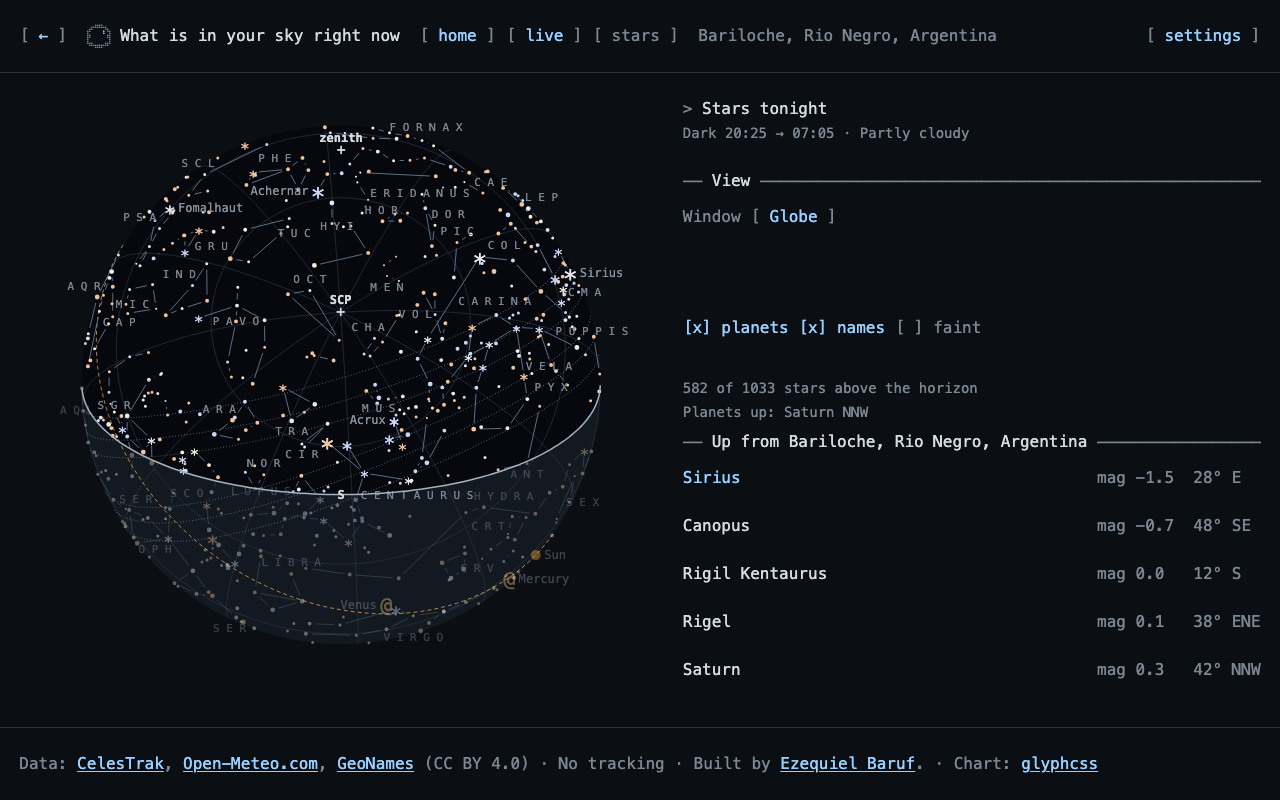
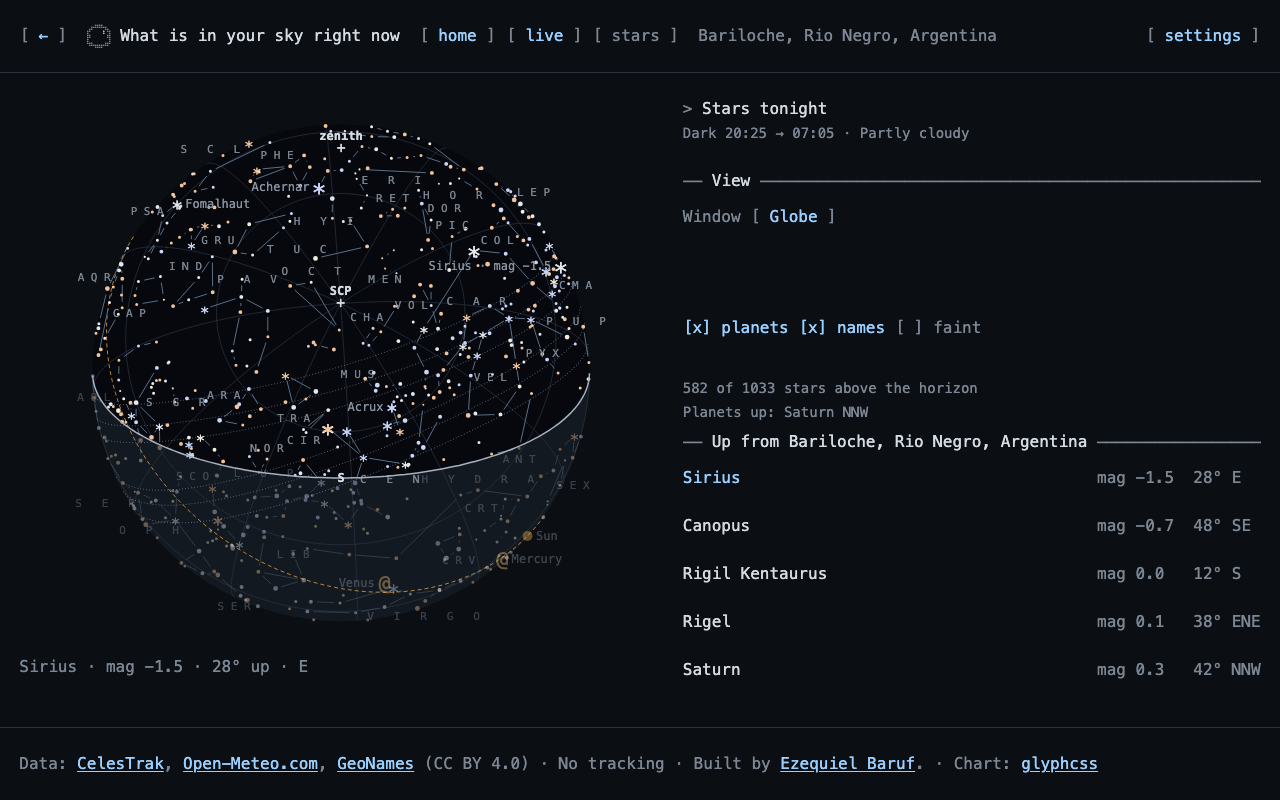
R171 review: the list's named row reaches the globe (FR-GLOBE-12), the globe and faint waits read a drawn frame and the deep total, the London seed and exact press, stars-whole's own 390 rule, the budget re-read
SkyGlobe takes the page's named row (a star's index, or a planet's past the catalogue) and names it as a hover or a press does; v1-stars-globe-named-1280-* re-shot on the Mac. globeShown waits for the SVG's viewBox, written only in a frame; stars-globe-faint waits for the count's total to pass the bright catalogue's. LONDON_FAVOURITE's lastUsedAt is its addedAt. The place route presses the full label. stars-whole loses its dead desk branch and gets its own [390] rule in captures.test.ts. Budget: stars +1,536 (GLOBE_STARS_KB exactly), main +762, globe 13.5; RELEASE §25.2 says why 2.11.0's main reads 186,383 here and 186,394 in §24.2.

diff --git a/tests/e2e/v1-captures.spec.ts b/tests/e2e/v1-captures.spec.ts
@@ -58,7 +58,7 @@ import { closeSheet, domeDrawn, enterScrubbing, openLegend, openSettings, openSh
 // Bariloche is the place picker's observer for the geocoder's first answer, at its 839 m (FR-SHOW-9), which is
 // what the stored Bariloche run and `SHOWN_PASS`'s id were computed at. Neuquén is only the second row of the
 // saved places.
-import { BARILOCHE, FIXTURE_DATE, NEUQUEN } from './observers';
+import { BARILOCHE, FIXTURE_DATE, LONDON, NEUQUEN } from './observers';
 import { aimedAt, setReadings, stubOrientation } from './orientation';
 
 /** `hh:mm:ss` in the observer's zone: the page's clocks read local time now that the observer has one (D-36). */
@@ -660,7 +660,8 @@ const TURN_STARS = { en: 'with the stars', es: 'con las estrellas' } as const;
 /**
  * R171 (FR-GLOBE-1, FR-GLOBE-18; D-1042): `Globe` pressed in the wide stars page's view row. The globe and its rail
  * groups are lazy chunks whose Suspense reveal the paused clock holds (R32), so the wait ticks the clock until the
- * zenith's mark is in the globe's SVG and the rail's groups are drawn, then a second for the frame, and the instant is
+ * globe's SVG has had its first frame — `GlobeRenderer` builds every node hidden at mount and writes the `viewBox` only
+ * in a frame — and the rail's groups are drawn, then a second more, and the instant is
  * put back on `CLOCK` (F-48) — the globe's own clock opens at now and ticks with real time (FR-GLOBE-7), so the pin is
  * its instant too. The focus ring leaves the row's button.
  */
@@ -669,7 +670,7 @@ async function globeShown(page: Page, locale: CaptureLocale): Promise<void> {
   await expect
     .poll(async () => {
       await page.clock.runFor(200);
-      return (await page.locator('[data-globe] [data-zenith]').count()) > 0 && (await page.getByTestId('globe-groups').count()) > 0;
+      return (await page.locator('svg[data-globe][viewBox]').count()) > 0 && (await page.getByTestId('globe-groups').count()) > 0;
     }, { timeout: 30_000 })
     .toBe(true);
   await page.clock.runFor(1000);
@@ -1055,12 +1056,13 @@ const REACH: Record<string, Reach> = {
     await page.mouse.move(0, 0);
   },
 
-  /** R161 (FR-PHONE-7, FR-PHONE-8, FR-PHONE-16): the stars page as it opens, `Whole sky` pressed. */
+  /**
+   * R161 (FR-PHONE-7, FR-PHONE-8, FR-PHONE-16): the stars page as it opens, `Whole sky` pressed. R171 (FR-GLOBE-18):
+   * at 390 alone — the wide page's whole sky is the globe — where the view row is the sheet's (R165, FR-CLEAN-4).
+   */
   async 'stars-whole'(page, width, theme, locale) {
     await starsAt(page, width, theme, locale);
-    // R165 (FR-CLEAN-4): on a phone the view row is the sheet's.
-    if (isTouch('stars-whole', width)) await inSheet(page, () => wholeSky(page, locale));
-    else await wholeSky(page, locale);
+    await inSheet(page, () => wholeSky(page, locale));
     await pinnedAt(page, CLOCK);
     await page.mouse.move(0, 0);
   },
@@ -1166,22 +1168,26 @@ const REACH: Record<string, Reach> = {
 
   /**
    * R171 (FR-GLOBE-10, FR-GLOBE-18): `stars-globe`, then `[ ] faint` pressed. The deep catalogue is `deepChunk.ts`'s
-   * lazy fetch, so the wait ticks the clock until the count reads the whole drawn set, then pins the instant again.
+   * lazy fetch, so the wait ticks the clock until the count's total ("… of N stars") is past the bright catalogue's —
+   * the total moves only when the deep chunk is in (the visible number moves with the instant too) — then gives the
+   * renderer, handed the same chunk, a second for its frame and pins the instant again.
    */
   async 'stars-globe-faint'(page, width, theme, locale) {
     await starsAt(page, width, theme, locale);
     await globeShown(page, locale);
     const count = page.getByTestId('globe-count');
-    const before = await count.textContent();
+    const total = async (): Promise<number> => Number(/ (?:of|de) (\d+) /.exec((await count.textContent()) ?? '')?.[1] ?? NaN);
+    const bright = await total();
+    expect(bright).toBeGreaterThan(0);
     const faint = page.locator('[data-layer="faint"]');
     await faint.click();
     await expect(faint).toHaveAttribute('aria-pressed', 'true');
     await expect
       .poll(async () => {
         await page.clock.runFor(200);
-        return count.textContent();
+        return total();
       }, { timeout: 30_000 })
-      .not.toBe(before);
+      .toBeGreaterThan(bright);
     await page.clock.runFor(1000);
     await pinnedAt(page, CLOCK);
     await blurFocus(page);
@@ -1195,7 +1201,9 @@ const REACH: Record<string, Reach> = {
   async 'stars-globe-place'(page, width, theme, locale) {
     await starsAt(page, width, theme, locale, CLOCK, { favourites: [LONDON_FAVOURITE] });
     await globeShown(page, locale);
-    const london = page.getByTestId('globe-place').getByRole('button', { name: 'London' });
+    // The whole label after the option's box (`[ ]`, then `[x]` once pressed), so no other saved London matches.
+    const label = LONDON.label.replace(/[.*+?^${}()|[\]\\]/g, '\\$&');
+    const london = page.getByTestId('globe-place').getByRole('button', { name: new RegExp(`^\\[.\\] ${label}$`) });
     await london.click();
     await expect(london).toHaveAttribute('aria-pressed', 'true');
     await expect(page.getByTestId('stars-sky')).toHaveAttribute('aria-label', /London/);
@@ -1213,8 +1221,9 @@ const REACH: Record<string, Reach> = {
 
   /**
    * R171 (FR-GLOBE-11, FR-GLOBE-12, FR-GLOBE-18): `stars-globe` with the first row of `Up from <place>` pressed. The
-   * name holds for `STAR_LABEL_HOLD_S` and a pin is a ten-second tick, so the instant is pinned first and the row
-   * pressed after it; `settled`'s two frames are well inside the hold.
+   * name holds for `STAR_LABEL_HOLD_S` and a pin is a ten-second tick, so the instant is pinned first (`globeShown`)
+   * and the row pressed after it; the one frame here and the shot's settle are well inside the hold. The list's name
+   * is the globe's too (FR-GLOBE-12): the label beside Sirius with its magnitude, and the readout line under the box.
    */
   async 'stars-globe-named'(page, width, theme, locale) {
     await starsAt(page, width, theme, locale);
@@ -1223,9 +1232,10 @@ const REACH: Record<string, Reach> = {
     await first.click();
     await expect(first).toHaveAttribute('aria-pressed', 'true');
     await page.clock.runFor(FRAME_MS);
+    await expect(page.getByTestId('globe-named')).toBeVisible();
+    await expect(page.locator('svg[data-globe] [data-label]')).toHaveAttribute('visibility', 'visible');
     await blurFocus(page);
     await page.mouse.move(0, 0);
-    await expect(first).toHaveAttribute('aria-pressed', 'true');
   },
 
 };

diff --git a/scripts/bundle-budget.ts b/scripts/bundle-budget.ts
@@ -424,15 +424,19 @@ export interface Budget {
  * | astronomy      | `astronomy-*` + `skyBodies-*` | 24.1 | 24.1 |     30 |  30 |      30 |
  * | live           | `Live-*.js`           |       14.7 |     13.7 |     20 |  20 |      40 |
  * | window         | `SkyWindow-*.js`      |       13.2 |     13.0 |     15 |  15 |       — |
- * | globe          | `SkyGlobe-*` + `GlobeRail-*` + `scene-*` | — | 13.4 | **15** | 15 | 15 |
+ * | globe          | `SkyGlobe-*` + `GlobeRail-*` + `scene-*` | — | 13.5 | **15** | 15 | 15 |
  * | service worker | `workbox-*.js`        |        5.0 |      5.0 |     10 |  10 |      15 |
  * | settings       | `Settings-*.js`       |        1.2 |      1.2 |     10 |  10 |       — |
  *
- * `main` is +759 bytes over 2.11.0 (186,383 → 187,142), the globe's strings in
- * both catalogs and the lazy import, inside GLOBE_MAIN_KB (1.5); `stars` +1,529
- * (30,611 → 32,140), the view row's third value and the rail's wiring, inside
- * GLOBE_STARS_KB (1,536 bytes) by 7. `live` gives back 1,075 bytes and `window`
- * 137: the modules the globe shares with them (`shownTime`, `useWallThrottle`,
+ * `main` is +762 bytes over 2.11.0 (186,383 → 187,145), the globe's strings in
+ * both catalogs and the lazy import, inside GLOBE_MAIN_KB (1.5); `stars` +1,536
+ * (30,611 → 32,147), the view row's third value, the rail's wiring and the
+ * named row handed to the globe, at GLOBE_STARS_KB (1,536 bytes) exactly.
+ * 2.11.0's `main` reads 186,383 beside this branch and 186,394 in R165's note
+ * above and in D-1050: one `src/`, built in other checkouts on other days; the
+ * delta of record is the one read beside a base built in the same run
+ * (`docs/RELEASE.md` §25.2). `live` gives back 1,074 bytes and `window`
+ * 135: the modules the globe shares with them (`shownTime`, `useWallThrottle`,
  * `skySurface`, `starGlyphs.module`, `deepChunk`) are chunks of their own now,
  * listed unbudgeted as every shared lazy chunk is. `docs/RELEASE.md` §25.2 has
  * the byte counts.
@@ -496,9 +500,9 @@ export const BUDGETS: readonly Budget[] = [
   { name: 'live', match: (file) => /^Live-.*\.js$/.test(file), limitKb: 20 }, // R149 (FR-FULL-9 as amended, V28-9, D-940): 15.3 on the 2.8.0 branch against 13.3 on 2.7.0 (15,658 bytes against 13,596, +2,062) — `ControlsSheet`, `SkyHead`, `OpeningCard` and the card's effect; the owner accepted the measure and D-178's × 1.1 (16.8) re-sets the row to 20; R145 (D-178): 13.3 on 2.7.0 against 9.7 on 2.6.1 (+3,681 bytes) — the track, the taps, the shown time and the jump are imported only by the lazy `Live.tsx`, so Rollup puts them here and not in main (FR-TONIGHT-10 as amended, V27-9); × 1.1 = 14.6, so 15 stays; R53: back to the floor — R47 moved the World Magnetic Model to its own chunk and 1.1.0 measures 7.6 (D-178); R72: 8.5 on 1.4.0, the floor's last 1.5 KB; R100: 9.7 on 2.1.0, × 1.1 crosses 10 (D-638)
   { name: 'window', match: (file) => /^SkyWindow-.*\.js$/.test(file), limitKb: 15 }, // R161 (D-178, D-993): 13.1 on 2.10.0 against 26.1 on 2.9.0 (13,370 bytes against 26,725) — what the window shares with the polar chart went to the shared `starLabels-*` chunk (12.9) and the constellation table to `camera-*` (4.5), both unbudgeted; × 1.1 = 14.4, down to 15; R128 (D-831): 25.7 on 2.5.0, re-set by D-178's rule (× 1.1 = 28.3, up to 30) — the hand camera on every page, the picker, the zoom and the landmark (R121, R125, R127); R65: 12.0 measured — the WMM folded back in when the window became its only caller (D-345); R72: 12.1 on 1.4.0; R80: 12.8 with the compass gutter in it; R118 (D-759 as amended, D-780, D-785): 22.1 on 2.4.0, re-set by D-178's rule (× 1.1 = 24.3, up to 25) — the star names, the page's label words, the constellation table and the magnitude format are shared by the `stars` and `SkyWindow` chunks, and Rollup puts what they share in `SkyWindow-*.js`
   { name: 'settings', match: (file) => /^Settings-.*\.js$/.test(file), limitKb: 10 }, // R93 (D-545): 1.0 measured — the page's own composition; its controls are the home page's and stay in main
-  // R170 (FR-GLOBE-15, D-1035): the stars page's globe — `SkyGlobe-*.js` (the renderer and the hand), `GlobeRail-*.js` (the rail's groups and list, lazy with it so `stars` keeps the wiring alone) and `scene-*.js` (`globe/scene.ts` and the projection, which the two share), one total. R171 (D-178, D-1042): 13.4 on 2.12.0 (13,724 bytes), moved here from `PHASE_BUDGETS`; × 1.1 = 14.7, so 15, GLOBE_BUDGET_KB, the ceiling.
+  // R170 (FR-GLOBE-15, D-1035): the stars page's globe — `SkyGlobe-*.js` (the renderer and the hand), `GlobeRail-*.js` (the rail's groups and list, lazy with it so `stars` keeps the wiring alone) and `scene-*.js` (`globe/scene.ts` and the projection, which the two share), one total. R171 (D-178, D-1042): 13.5 on 2.12.0 (13,807 bytes), moved here from `PHASE_BUDGETS`; × 1.1 = 14.9, so 15, GLOBE_BUDGET_KB, the ceiling.
   { name: 'globe', match: (file) => /^(SkyGlobe|GlobeRail|scene)-.*\.js$/.test(file), limitKb: 15 },
-  { name: 'stars', match: (file) => /^Stars-.*\.js$/.test(file), limitKb: 35 }, // R171 (D-178): 31.4 on 2.12.0 against 29.9 on 2.11.0 (32,140 bytes against 30,611, +1,529) — the view row's third value and the globe's wiring, inside GLOBE_STARS_KB; × 1.1 = 34.5, so 35 stays; R161 (D-178): 29.2 on 2.10.0 against 26.0 on 2.9.0 (29,863 bytes against 26,665, +3,198) — the `bv` column, the haze outline and the view row; × 1.1 = 32.1, up to 35 under the 40 ceiling; R115 (FR-STAR-9, D-759): the page, the catalogue (18.8, D-763) and the positions, under STARS_BUDGET_KB (40), the ceiling; R118 (D-785): 23.6 on 2.4.0, re-set by D-178's rule (× 1.1 = 26.0, up to 30)
+  { name: 'stars', match: (file) => /^Stars-.*\.js$/.test(file), limitKb: 35 }, // R171 (D-178): 31.4 on 2.12.0 against 29.9 on 2.11.0 (32,147 bytes against 30,611, +1,536) — the view row's third value, the globe's wiring and its named row, at GLOBE_STARS_KB; × 1.1 = 34.5, so 35 stays; R161 (D-178): 29.2 on 2.10.0 against 26.0 on 2.9.0 (29,863 bytes against 26,665, +3,198) — the `bv` column, the haze outline and the view row; × 1.1 = 32.1, up to 35 under the 40 ceiling; R115 (FR-STAR-9, D-759): the page, the catalogue (18.8, D-763) and the positions, under STARS_BUDGET_KB (40), the ceiling; R118 (D-785): 23.6 on 2.4.0, re-set by D-178's rule (× 1.1 = 26.0, up to 30)
 ];
 
 /**

diff --git a/src/ui/components/guide/skychart/globe/SkyGlobe.tsx b/src/ui/components/guide/skychart/globe/SkyGlobe.tsx
@@ -6,6 +6,7 @@ import { STAR_LABEL_HOLD_S } from '../../../../screens/stars/field';
 import { HIT_RADIUS_PX } from '../window/starGlyphs';
 import { GLOBE_KEY_STEP_DEG, GLOBE_ZOOM_MAX, GLOBE_ZOOM_MIN, GLOBE_ZOOM_STEP } from './constants';
 import { frameFor, GlobeRenderer, projectorFor, readoutLine, sameTarget, type GlobeLayers, type GlobeTarget, type Turn } from './GlobeRenderer';
+import { PLANETS } from '../../../../../lib/skyStars';
 import { coordsIn, dragTurn, EQUATORIAL, openView } from './projection';
 import { globeSky } from './scene';
 import styles from './SkyGlobe.module.css';
@@ -59,6 +60,11 @@ export interface SkyGlobeProps {
   language: Locale;
   /** FR-GLOBE-10: the deep chunk would not load; the page unpresses `faint`. */
   onFaintFailed?: () => void;
+  /**
+   * FR-GLOBE-12 (FR-LEG-4's rule): the `Up from <place>` row the page has named, by `upList`'s index — a star's
+   * catalogue index, or a planet's past the catalogue's length (D-750). A hover or a press on the globe comes first.
+   */
+  named?: number | null;
   className?: string;
 }
 
@@ -102,7 +108,15 @@ function measure(box: HTMLElement): { width: number; height: number } {
   return { width: Math.round(rect.width), height: Math.round(rect.height) };
 }
 
-export default function SkyGlobe({ place, instant, turn, layers, faint, language, onFaintFailed, className }: SkyGlobeProps) {
+/** FR-GLOBE-12: a list row's index as the globe's target — a star's, else the planet `PLANETS` holds past the catalogue. */
+function listTarget(index: number | null, size: number): GlobeTarget | null {
+  if (index === null) return null;
+  if (index < size) return { kind: 'star', index };
+  const body = PLANETS[index - size];
+  return body === undefined ? null : { kind: 'planet', body };
+}
+
+export default function SkyGlobe({ place, instant, turn, layers, faint, language, onFaintFailed, named: listNamed = null, className }: SkyGlobeProps) {
   const catalog = useMemo(() => starCatalog(), []);
   const boxRef = useRef<HTMLDivElement>(null);
   const svgRef = useRef<SVGSVGElement>(null);
@@ -110,6 +124,7 @@ export default function SkyGlobe({ place, instant, turn, layers, faint, language
   const viewRef = useViewRef(() => openingView(turn, place, instant));
   const [named, setNamed] = useState<GlobeTarget | null>(null);
   const [hovered, setHovered] = useState<GlobeTarget | null>(null);
+  const listed = useMemo(() => listTarget(listNamed, catalog.size), [listNamed, catalog]);
   const [dragging, setDragging] = useState(false);
   const readoutId = `${useId()}-readout`;
 
@@ -164,8 +179,8 @@ export default function SkyGlobe({ place, instant, turn, layers, faint, language
         view.lat = opened.lat;
       }
     }
-    renderer?.set({ place, t: instant, turn, lon: view.lon, lat: view.lat, zoom: view.zoom, layers, faint, lang: language, named: hovered ?? named });
-  }, [place, instant, turn, layers, faint, language, hovered, named, viewRef]);
+    renderer?.set({ place, t: instant, turn, lon: view.lon, lat: view.lat, zoom: view.zoom, layers, faint, lang: language, named: hovered ?? named ?? listed });
+  }, [place, instant, turn, layers, faint, language, hovered, named, listed, viewRef]);
 
   // FR-GLOBE-10: the deep chunk, once, the first time `faint` is on; a failure tells the page. The callback is read through a ref, so a new one does not re-run the load.
   const askedRef = useRef(false);
@@ -419,7 +434,7 @@ export default function SkyGlobe({ place, instant, turn, layers, faint, language
     move();
   };
 
-  const shown = hovered ?? named;
+  const shown = hovered ?? named ?? listed;
   const line = shown === null ? null : readoutLine(catalog, { place, t: instant, lang: language }, shown);
   return (
     <>

diff --git a/src/ui/components/guide/skychart/globe/SkyGlobe.test.tsx b/src/ui/components/guide/skychart/globe/SkyGlobe.test.tsx
@@ -329,6 +329,23 @@ describe('naming (FR-GLOBE-11)', () => {
     expect(container.querySelector('[data-testid="globe-named"]')).toBeNull();
   });
 
+  it('FR-GLOBE-12: a row the list names names its mark on the globe — a star, a planet past the catalogue — and none clears it', () => {
+    const { container, rerender, q } = mount();
+    const star = centreStar(container);
+    rerender({ named: star.index });
+    frames.frame();
+    expect(q('[data-label]')).toHaveAttribute('visibility', 'visible');
+    expect(q('[data-label]').textContent).toBe(`${catalog.name[star.index] || catalog.desig[star.index]} · mag ${formatStarMag(catalog.mag[star.index] ?? 0, 'en')}`);
+    expect(q('[data-testid="globe-named"]').textContent).toBe(readoutLine(catalog, { place: BUENOS_AIRES, t: T, lang: 'en' }, { kind: 'star', index: star.index }));
+    rerender({ named: catalog.size + 4 });
+    frames.frame();
+    expect(q('[data-testid="globe-named"]').textContent).toBe(readoutLine(catalog, { place: BUENOS_AIRES, t: T, lang: 'en' }, { kind: 'planet', body: 'Saturn' }));
+    rerender({ named: null });
+    frames.frame();
+    expect(q('[data-label]')).toHaveAttribute('visibility', 'hidden');
+    expect(container.querySelector('[data-testid="globe-named"]')).toBeNull();
+  });
+
   it('reads out in Spanish, with the zenith and the pole in Spanish too', () => {
     const { container, box, q } = mount({ language: 'es' });
     expect(q('[data-zenith-name]').textContent).toBe('cenit');

diff --git a/tests/docs/captures.test.ts b/tests/docs/captures.test.ts
@@ -84,8 +84,9 @@ describe('the v1 capture set', () => {
     // R153 (FR-GYRO-9, D-958): the sky screen's exception went with its nine screens; following is FR-GYRO-9's one
     // size, the phone upright, on the live page and the stars page — a desk has no sensor to follow.
     // R161 (FR-PHONE-16, D-993): and the whole sky's outline while following, at the same one size.
-    // R171 (FR-GLOBE-18, D-1042): and the whole sky itself, whose wide file left for the globe.
-    const FOLLOWING = new Set(['live-following', 'stars-following', 'stars-whole-following', 'stars-whole']);
+    const FOLLOWING = new Set(['live-following', 'stars-following', 'stars-whole-following']);
+    // R171 (FR-GLOBE-18, D-1042): the whole sky keeps its 390 alone — its wide file left for the globe.
+    const UPRIGHT_ONLY = new Set(['stars-whole']);
     // R171 (FR-GLOBE-18, D-1042): the globe is a desk's screen — the compact stars page draws the whole sky as the polar
     // chart — at the sizes FR-GLOBE-18 names for each.
     const GLOBE: ReadonlyMap<string, readonly number[]> = new Map([
@@ -118,6 +119,10 @@ describe('the v1 capture set', () => {
         continue;
       }
       if (FOLLOWING.has(screen.name)) {
+        expect(screen.widths, screen.name).toEqual([390]);
+        continue;
+      }
+      if (UPRIGHT_ONLY.has(screen.name)) {
         expect(screen.widths, screen.name).toEqual([390]);
         continue;
       }

diff --git a/tests/e2e/captureSeeds.ts b/tests/e2e/captureSeeds.ts
@@ -50,10 +50,10 @@ export const TICK_MS = 10_000;
  * R171 (FR-GLOBE-9, FR-GLOBE-18; D-1042): the saved place `stars-globe-place` moves the globe to — London, in a zone of
  * its own and on the other side of the equator from Bariloche, so the globe's south is the ground side there. The
  * observer is the showcase's (`observers.ts`, the geocoder's first answer for `london`, as P9's dome flows use it); the
- * favourite is saved a day before the set's night and used last before Bariloche, so the rail lists it under the
- * app's place.
+ * favourite is saved a day before the set's night and not used since, as `addFavourite` leaves it (`lastUsedAt` is
+ * `addedAt`); the rail lists it under the app's place, which `GlobePlaces` puts first whatever the dates.
  */
-export const LONDON_FAVOURITE = { cellKey: favouriteCellKey(LONDON), observer: LONDON, addedAt: CLOCK - DAY_MS, lastUsedAt: CLOCK - 2 * DAY_MS };
+export const LONDON_FAVOURITE = { cellKey: favouriteCellKey(LONDON), observer: LONDON, addedAt: CLOCK - DAY_MS, lastUsedAt: CLOCK - DAY_MS };
 
 export const OPEN_GUIDE = { en: /Open guide/, es: /Abrir la guía/ } as const;
 

diff --git a/tests/e2e/captureSet.ts b/tests/e2e/captureSet.ts
@@ -380,7 +380,7 @@ export const SCREENS: readonly CaptureScreen[] = [
   {
     name: 'stars-globe-named',
     widths: [1280],
-    what: "`stars-globe` with the first row of `Up from Bariloche` pressed (FR-GLOBE-11, FR-GLOBE-12, FR-STAR-7): the brightest object above the horizon (Sirius) named, its row pressed and the rail scrolled to the list, shot inside `STAR_LABEL_HOLD_S`. FR-GLOBE-18 names 1280. The globe draws no mark for the list's naming (R171's finding: `SkyGlobe` takes no `named` prop, so FR-GLOBE-12's \"a row's focus or activation naming its mark on the globe\" is not met); Sirius's label on the globe is the `names` layer's.",
+    what: "`stars-globe` with the first row of `Up from Bariloche` pressed (FR-GLOBE-11, FR-GLOBE-12, FR-STAR-7): the brightest object above the horizon (Sirius) named, its row pressed and the rail scrolled to the list, shot inside `STAR_LABEL_HOLD_S`, and the row's naming is the globe's too (FR-GLOBE-12, FR-LEG-4's rule): the label beside Sirius's mark with its magnitude, and the readout line under the box. FR-GLOBE-18 names 1280.",
   },
   {
     name: 'stars-whole-following',

diff --git a/src/ui/screens/Stars.tsx b/src/ui/screens/Stars.tsx
@@ -554,7 +554,7 @@ function StarsSky({ observer }: { observer: Observer }) {
     <div className={globeShown ? `${styles.sky} ${styles.globeSky}` : styles.sky} ref={skyRef} role="group" aria-label={globeShown ? globeLabel : p.drawing} data-testid="stars-sky" data-view={globeShown ? 'globe' : chartView} onPointerDownCapture={markSkyHintSeen}>
       {globeShown ? (
         <Suspense fallback={null}>
-          <SkyGlobe place={shownPlace} instant={globeClock.t} turn={turn} layers={drawnLayers} faint={faint} language={lang} onFaintFailed={onFaintFailed} />
+          <SkyGlobe place={shownPlace} instant={globeClock.t} turn={turn} layers={drawnLayers} faint={faint} language={lang} onFaintFailed={onFaintFailed} named={named?.index ?? null} />
         </Suspense>
       ) : (
         <SkyChart passes={NO_PASSES} observer={observer} highlightedPassId={null} now={now} sun={sun} moon={moon} fill scene={scene} camera={camera} namedStar={named?.index ?? null} onNameStar={onName} follow={following} onFollowEnd={follow.onFollowEnd} views={STARS_VIEWS} view={chartView} onViewChange={onChartView} />

diff --git a/docs/RELEASE.md b/docs/RELEASE.md
@@ -2723,7 +2723,9 @@ opens, turning with you (8); `stars-globe-stars` at 1280, turning with the stars
 `stars-globe-faint` at 1920, the faint stars on (4); `stars-globe-place` at 1280, the seeds' saved
 London pressed — London's horizon, the south the ground side, the clock in London's zone at the
 same instant (4); and `stars-globe-named` at 1280, the first row of `Up from Bariloche` (Sirius)
-pressed (4). `captureSeeds.ts` carries the London favourite (`LONDON_FAVOURITE`, the showcase's
+pressed, which names Sirius on the globe — the label beside its mark with its magnitude and the
+readout line under the box (4; FR-GLOBE-12, fixed in R171's review: `SkyGlobe` takes the page's
+named row, and the four files were re-shot on the same Mac). `captureSeeds.ts` carries the London favourite (`LONDON_FAVOURITE`, the showcase's
 geocoded London).
 
 **How it was measured.** R171 ran headless, with no `gh`, so it could not dispatch
@@ -2776,30 +2778,38 @@ whether that run's artefact replaces the set.
 
 `npm run bundle:budget` on the branch, gzip level 9, beside `8413d978` (2.11.0) built on the
 same machine, both plain. D-178 re-sets every row and **none moves**: R170's `globe` row leaves
-`PHASE_BUDGETS` for the table at the GLOBE_BUDGET_KB it had (13.4 × 1.1 = 14.7, so 15), every
+`PHASE_BUDGETS` for the table at the GLOBE_BUDGET_KB it had (13.5 × 1.1 = 14.9, so 15), every
 other row's measure × 1.1, rounded up to the next 5 KB, is the budget it already has, and
 `main`'s (205) is past its 185 ceiling. The budget column is `scripts/bundle-budget.ts`'s rows;
 `tests/docs/accuracy.test.ts` checks it against them:
 
 | Chunk | gzip KB | Budget KB | `8413d978` | Change |
 |---|---|---|---|---|
-| main | 182.8 | 185 | 182.0 | +759 bytes |
-| chart (`SkyDome`) | 97.1 | 110 | 97.1 | −2 bytes |
+| main | 182.8 | 185 | 182.0 | +762 bytes |
+| chart (`SkyDome`) | 97.1 | 110 | 97.1 | +6 bytes |
 | stars-deep (`deep`) | 41.8 | 50 | 41.8 | 0 |
 | worker | 36.1 | 40 | 36.1 | 0 |
-| stars | 31.4 | 35 | 29.9 | +1,529 bytes |
-| astronomy (`astronomy` + `skyBodies`) | 24.1 | 30 | 24.1 | −3 bytes |
-| live | 13.7 | 20 | 14.7 | −1,075 bytes |
-| window (`SkyWindow`) | 13.0 | 15 | 13.2 | −137 bytes |
-| globe (`SkyGlobe` + `GlobeRail` + `scene`) | 13.4 | 15 | — | +13,724 bytes |
-| service worker | 5.0 | 10 | 5.0 | +152 bytes (the worker script) |
-| settings | 1.2 | 10 | 1.2 | −5 bytes |
+| stars | 31.4 | 35 | 29.9 | +1,536 bytes |
+| astronomy (`astronomy` + `skyBodies`) | 24.1 | 30 | 24.1 | −2 bytes |
+| live | 13.7 | 20 | 14.7 | −1,074 bytes |
+| window (`SkyWindow`) | 13.0 | 15 | 13.2 | −135 bytes |
+| globe (`SkyGlobe` + `GlobeRail` + `scene`) | 13.5 | 15 | — | +13,807 bytes |
+| service worker | 5.0 | 10 | 5.0 | +157 bytes (the worker script) |
+| settings | 1.2 | 10 | 1.2 | −3 bytes |
 
 The service worker row is per file, so its measure is the larger, `workbox-*.js`, unchanged;
-the worker script (1.2 → 1.4 KB) grows by the globe's chunks in the precache list (FR-OFF-1). **`main`** is +759 bytes (186,383 → 187,142), the globe's strings in both catalogs
-and the lazy import, inside GLOBE_MAIN_KB (1.5 KB). **`stars`** is +1,529 bytes
-(30,611 → 32,140), the view row's third value and the rail's wiring, inside GLOBE_STARS_KB
-(1,536 bytes) by 7. **`live` and `window` move down**, which FR-GLOBE-15's "no other row moves"
+the worker script (1.2 → 1.4 KB) grows by the globe's chunks in the precache list (FR-OFF-1). **`main`** is +762 bytes (186,383 → 187,145), the globe's strings in both catalogs
+and the lazy import, inside GLOBE_MAIN_KB (1.5 KB). **`stars`** is +1,536 bytes
+(30,611 → 32,147), the view row's third value, the rail's wiring and the named row handed to the
+globe (FR-GLOBE-12, +7 in the review), at GLOBE_STARS_KB (1,536 bytes) exactly: the next byte
+the page adds to `stars` before 2.12.0 is past it. The rows that hold no change move by a few
+bytes with the chunk names they import (`chart` +6 here against −2 before the review).
+
+**`main`'s 2.11.0 measure is 186,383 here, 186,394 in §24.2 and D-1050.** Both are builds of
+the same `src/` (it does not differ between R165's branch and `8413d978`), made in other
+checkouts on other days; the 11 bytes are the build's, not the code's. FR-GLOBE-15's delta is
+read beside a base built in the same run on the same machine, so this section's +762 is the one
+of record; D-1050's +749 (R170's branch against §24.2's figure) agrees within those 11 bytes. **`live` and `window` move down**, which FR-GLOBE-15's "no other row moves"
 did not foresee: what the globe shares with them — `shownTime`, `useWallThrottle`, `skySurface`,
 `starGlyphs.module` and `deepChunk` — became chunks of their own, unbudgeted as every shared lazy
 chunk is, so the bytes left the two rows without leaving the pages.
@@ -2815,11 +2825,6 @@ became `Globe` in R170, and the polar chart is the compact page's still. The cap
 
 - [ ] **The capture set's raster** (§25.1): commit `captures.yml`'s run 1 as the whole set, or
       keep the mixed set R171 committed (2.11.0's Linux files and 36 Mac files).
-- [ ] **`stars-globe-named` and FR-GLOBE-12:** pressing a row of `Up from <place>` presses the
-      row and names nothing on the globe — `SkyGlobe` takes no `named` prop, so "a row's focus or
-      activation naming its mark on the globe" is not met. The capture shows that state (Sirius's
-      label on the globe is the `names` layer's). A follow-up task in `src/`, or the requirement
-      amended.
 - [ ] **`live` and `window` down by the shared chunks** (§25.2): accept the reading of
       FR-GLOBE-15's "no other row moves" as "no row grows".
 - [ ] **F-99** stays open with §25.1's noise files; no new kind.
@@ -2845,7 +2850,7 @@ showed beside it.
 - [ ] **The faint stars:** `[ ] faint` fills the globe with the deep catalogue; the count reads
       the whole drawn set; off on the next visit.
 - [ ] **A star named:** a hover, a tap or a click on a star names it beside its mark and in the
-      readout; a row of the list pressed (§25.4).
+      readout; a row of `Up from <place>` pressed names its star or planet on the globe the same way.
 - [ ] **The phone's stars page unchanged:** `Window` and `Whole sky` in the sheet, the polar
       chart, no globe.
 

diff --git a/PLAN.md b/PLAN.md
@@ -1413,7 +1413,7 @@ The spike (`spike-stars-desktop`, c914908f) is the starting point: its `globe.ts
 - **D-1050 — The globe's rail is lazy with the globe, and on the globe it is the layout's scrolling row.** (FR-GLOBE-7..12, FR-GLOBE-15; D-1035; R170.) The rail's groups and its list (`stars/GlobeRail.tsx`) are a second dynamic import beside `SkyGlobe` (`stars/globeChunk.ts`, both prefetched on idle on wide only), because with them in `stars` that chunk measured 32.5 KB against 2.11.0's 29.9, past `GLOBE_STARS_KB`; lazy, `stars` is 31.4 (32,143 bytes, +1.5) and `main` 187,143 bytes (+749 over 186,394). The `globe` row in `PHASE_BUDGETS` counts `SkyGlobe-*.js`, `GlobeRail-*.js` and the `scene-*.js` they share: 13.4 against `GLOBE_BUDGET_KB` (15). The groups — `Time`, `Turn`, `Place` (up to nine options), then the layer rows with `[ ] faint`, then the count and `Up from <place>` — are one column in `SkyViewLayout`'s `list` slot, the row that gives and scrolls: in the `timeline` and `layers` slots at 1280 × 800 they were ~626 px of fixed rows in a ~606 px column, so the list had no room and the place group ran under the footer; and the rail's grid draws `layers` above `timeline`, against the DOM order. No facing picker, no readout slot and no hint on the globe. The SVG's own label is R169's fixed sentence (`chart.globe.label`); FR-GLOBE-12's label naming the place, the instant and the turn is the page's group around the box (`aria-label` on `stars-sky`, as it names the window's), since `SkyGlobe` takes no label prop.
 - **D-1051 — On the stars page `v` is the page's, and the places list skips the observer's own entry.** (FR-GLOBE-1, FR-GLOBE-9, FR-DESK-4; D-1040; R170.) The page's one capture listener on the window (R163's `Esc` one) also takes `v` (by `shortcutFor`'s guard, so a typing target and the overlay's inert page are left alone) and cycles `window` / `whole` at both widths, before `App`'s listener would switch the other pages' saved chart view. The `Place` group lists the observer, then the favourites newest use first (`mostRecentlyUsed`, re-exported from `src/state` as `favouriteCellKey` is, since `src/ui` may not import `src/data`), leaving out the favourite whose `cellKey` is the observer's, so the same place is not offered twice. A time-lapse pauses when the globe is left (to the window or to compact), since the page re-renders per frame while it plays; the instant is kept. `globe-perf.spec.ts` (Apple silicon, headless Chromium, 4× throttle, 2026-11-03): drag best of three 49.4/44.4 at 1280 × 800 and 47.5/43.1 at 1920 × 1080 (faint off/on); ×3600 58.5/48.7 and 55.9/43.1.
 - **D-1052 — The release's capture diff is measured on one machine, and only what moved is committed.** (FR-GLOBE-18, FR-CAP-5; D-742; R171.) A headless task cannot dispatch `captures.yml` (no `gh`), so R171 measured as R161 did: 2.11.0's set shot by `8413d978`'s own spec off a plain build of `8413d978` extracted into a scratch tree, and the branch's set shot twice off the branch's plain build, all on one Mac. The comparison is between those runs, never against the committed Linux raster, which differs from a Mac's everywhere. What is committed is 2.11.0's files where nothing moved, the Mac run's files for the 12 moved (the wide view row's word) and the 24 new, and the four `stars-whole-1280` files deleted; `captures.yml`'s run on `main` after the merge is the set of record, and whether its artefact replaces the mixed set is the owner's (RELEASE §25.4). The routes: `globeShown` ticks the paused clock until the zenith's mark and the rail's groups are drawn (the two lazy chunks' Suspense reveals, R32) and pins `CLOCK`, which is the globe's own instant too (its playback opens at now); `stars-globe-place` scrolls London's row to the rail's end, since the click's own scroll differs by where the row starts; `stars-globe-named` pins first and presses the row after, since `STAR_LABEL_HOLD_S` is 4 s and a pin is a 10 s tick. The London favourite is `observers.ts`'s geocoded `LONDON`, not `globeHelpers.ts`'s literal, so the rail's name is the geocoder's (`London, England, United Kingdom`).
-- **D-1053 — `live` and `window` give bytes back to shared chunks, and that is not a moved row.** (FR-GLOBE-15, D-178; R171.) Against 2.11.0, `live` is −1,075 bytes and `window` −137: what the globe shares with them (`shownTime`, `useWallThrottle`, `skySurface`, `starGlyphs.module`, `deepChunk`) is a chunk of its own now. FR-GLOBE-15's "no other row moves" is read as "no other row grows": no budget changes, and RELEASE §25.4 asks the owner to accept the reading. `globe` leaves `PHASE_BUDGETS` for `BUDGETS` at 15 (13.4 × 1.1 = 14.7, GLOBE_BUDGET_KB its ceiling).
+- **D-1053 — `live` and `window` give bytes back to shared chunks, and that is not a moved row.** (FR-GLOBE-15, D-178; R171.) Against 2.11.0, `live` is −1,074 bytes and `window` −135: what the globe shares with them (`shownTime`, `useWallThrottle`, `skySurface`, `starGlyphs.module`, `deepChunk`) is a chunk of its own now. FR-GLOBE-15's "no other row moves" is read as "no other row grows": no budget changes, and RELEASE §25.4 asks the owner to accept the reading. `globe` leaves `PHASE_BUDGETS` for `BUDGETS` at 15 (13.5 × 1.1 = 14.9, GLOBE_BUDGET_KB its ceiling).
 
 ---
 

diff --git a/TASKS.md b/TASKS.md
@@ -4867,7 +4867,7 @@ What every session reads, named in each task as "the phase set": SPEC §4.55 who
     - FR-CAP-5's diff against 2.11.0 lists only the wide `stars` row's word, the globe's additions and `stars-whole`'s 1280 removals; two runs agree but for F-99's noise.
     - `captureIds.test.ts`, `npm run bundle:budget`, `npm run check:dead` and `npx vitest run tests/docs` green.
     - The Done note lists the changed, added and removed files, the budget rows against 2.11.0, and "tag the squash merge of this PR".
-  - **Done:** the set is 436 files (D-1052, D-1053). Added 24: `v1-stars-globe-{1280,1920}-*`, `v1-stars-globe-stars-1280-*`, `v1-stars-globe-faint-1920-*`, `v1-stars-globe-place-1280-*`, `v1-stars-globe-named-1280-*`. Changed 12, the view row's word alone: `v1-stars-{1280,1920}-*`, `v1-stars-zoom-1280-*`. Removed 4: `v1-stars-whole-1280-*`. Against 2.11.0, both shot on one Mac (headless, no `captures.yml` dispatch): 379 identical, the 12 moved and 21 of F-99's noise; two branch runs 20 apart, all F-99. Budget rows against 2.11.0 (`8413d978`): main 182.0 → 182.8 (+759 bytes), stars 29.9 → 31.4 (+1,529), live 14.7 → 13.7, window 13.2 → 13.0, globe 13.4 new into `BUDGETS` at 15; no budget moves. `captureIds.test.ts` needed no change (it reads the specs). Found: a list row's naming does not reach the globe (FR-GLOBE-12; RELEASE §25.4). Tag the squash merge of this PR.
+  - **Done:** the set is 436 files (D-1052, D-1053). Added 24: `v1-stars-globe-{1280,1920}-*`, `v1-stars-globe-stars-1280-*`, `v1-stars-globe-faint-1920-*`, `v1-stars-globe-place-1280-*`, `v1-stars-globe-named-1280-*`. Changed 12, the view row's word alone: `v1-stars-{1280,1920}-*`, `v1-stars-zoom-1280-*`. Removed 4: `v1-stars-whole-1280-*`. Against 2.11.0, both shot on one Mac (headless, no `captures.yml` dispatch): 379 identical, the 12 moved and 21 of F-99's noise; two branch runs 20 apart, all F-99. Budget rows against 2.11.0 (`8413d978`): main 182.0 → 182.8 (+762 bytes), stars 29.9 → 31.4 (+1,536, GLOBE_STARS_KB exactly), live 14.7 → 13.7, window 13.2 → 13.0, globe 13.5 new into `BUDGETS` at 15; no budget moves. `captureIds.test.ts` needed no change (it reads the specs). Fixed in review: a list row's naming now reaches the globe (FR-GLOBE-12, `SkyGlobe`'s `named`), `v1-stars-globe-named-1280-*` re-shot. Tag the squash merge of this PR.
 
 ### Requirement coverage (v2.12)
 
